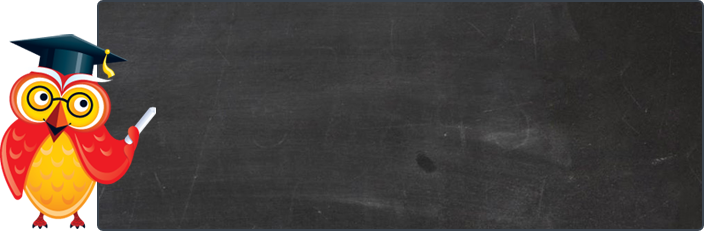
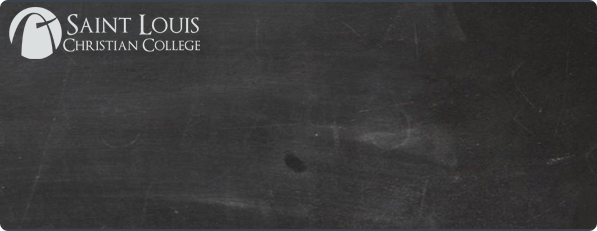
Issue #30: 404 Page Needs to Look Better
Changed the 'blackboard' image in the background, so that the owl
with the pointer is gone (why he was there to begin with, we'll
just never know...). Added the same logo that is in use in the header
on all pages across the site. Adjusted the wording in the HTML
template to be more grammatically correct.

diff --git a/sites/all/themes/slcc_subtheme/css/slcc.css b/sites/all/themes/slcc_subtheme/css/slcc.css
@@ -212,3 +212,19 @@ div#block-views-features-block--2 .view-features .webform-client-form .form-item
 div#block-views-features-block--2 .view-features .view-content .views-row .col-last .views-field-view-node {
   display: none;
 }
+
+/* 404 Page Image */
+.page-404 {
+  background: url("../images/error-bg.png") no-repeat left top;
+  margin: 100px auto 0;
+  width: 597px;
+/*
+  font-size: 12px;
+  height: 231px;
+  overflow: hidden;
+*/
+}
+
+.page-404 #outline {
+  margin-left: 40px;
+}

diff --git a/sites/all/themes/slcc_subtheme/tpl/html--404.tpl.php b/sites/all/themes/slcc_subtheme/tpl/html--404.tpl.php
@@ -1,0 +1,76 @@
+<?php
+/**
+ * @file html.tpl.php
+ * Default theme implementation to display the basic html structure of a single
+ * Drupal page.
+ *
+ * Variables:
+ * - $css: An array of CSS files for the current page.
+ * - $language: (object) The language the site is being displayed in.
+ *   $language->language contains its textual representation.
+ *   $language->dir contains the language direction. It will either be 'ltr' or 'rtl'.
+ * - $rdf_namespaces: All the RDF namespace prefixes used in the HTML document.
+ * - $grddl_profile: A GRDDL profile allowing agents to extract the RDF data.
+ * - $head_title: A modified version of the page title, for use in the TITLE
+ *   tag.
+ * - $head_title_array: (array) An associative array containing the string parts
+ *   that were used to generate the $head_title variable, already prepared to be
+ *   output as TITLE tag. The key/value pairs may contain one or more of the
+ *   following, depending on conditions:
+ *   - title: The title of the current page, if any.
+ *   - name: The name of the site.
+ *   - slogan: The slogan of the site, if any, and if there is no title.
+ * - $head: Markup for the HEAD section (including meta tags, keyword tags, and
+ *   so on).
+ * - $styles: Style tags necessary to import all CSS files for the page.
+ * - $scripts: Script tags necessary to load the JavaScript files and settings
+ *   for the page.
+ * - $page_top: Initial markup from any modules that have altered the
+ *   page. This variable should always be output first, before all other dynamic
+ *   content.
+ * - $page: The rendered page content.
+ * - $page_bottom: Final closing markup from any modules that have altered the
+ *   page. This variable should always be output last, after all other dynamic
+ *   content.
+ * - $classes String of classes that can be used to style contextually through
+ *   CSS.
+ *
+ * @see template_preprocess()
+ * @see template_preprocess_html()
+ * @see template_process()
+ * @see nucleus_preprocess_html()
+ */
+?>
+<!DOCTYPE html PUBLIC "-//W3C//DTD XHTML 1.0 Transitional//EN" "http://www.w3.org/TR/xhtml1/DTD/xhtml1-transitional.dtd">
+<html xmlns="http://www.w3.org/1999/xhtml" xml:lang="<?php print $language->language; ?>" lang="<?php print $language->language; ?>" dir="<?php print $language->dir; ?>">
+  <head>
+    <!-- META FOR IOS & HANDHELD -->
+    <meta name="viewport" content="width=device-width, initial-scale=1.0, maximum-scale=1.0, user-scalable=yes"/>
+    <meta name="HandheldFriendly" content="true" />
+    <meta name="apple-touch-fullscreen" content="YES" />
+    <!-- //META FOR IOS & HANDHELD -->
+    <?php print $head; ?>
+    <title><?php print $head_title; ?></title>
+    <?php print $styles; ?>
+    <?php print $scripts; ?>
+  </head>
+
+  <body class="body-404"<?php print $attributes; ?>>
+    <div id="skip-link"><a href="#main-content" class="element-invisible element-focusable"><?php print t('Skip to main content'); ?></a></div>
+    <?php print $page_top; ?>	
+    <div id="page"  class="page-404">
+      <div id="outline">
+        <div id="errorboxoutline">
+          <h1>404</h1>
+          <div class="page-404-message"><?php print t('Page not found')?></div>
+          <div id="errorboxbody">
+            <?php print t('You should head back to the <a title="@title" href="@url">Home Page</a>',array(
+              '@url' => base_path(),
+              '@title' => t('Go to Home Page')
+            ))?>
+          </div>
+        </div>
+      </div>
+    </div>
+  </body>
+</html>
